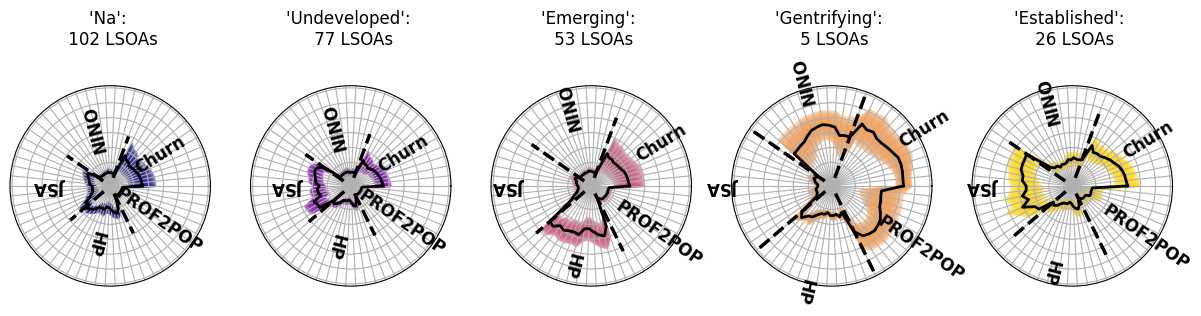
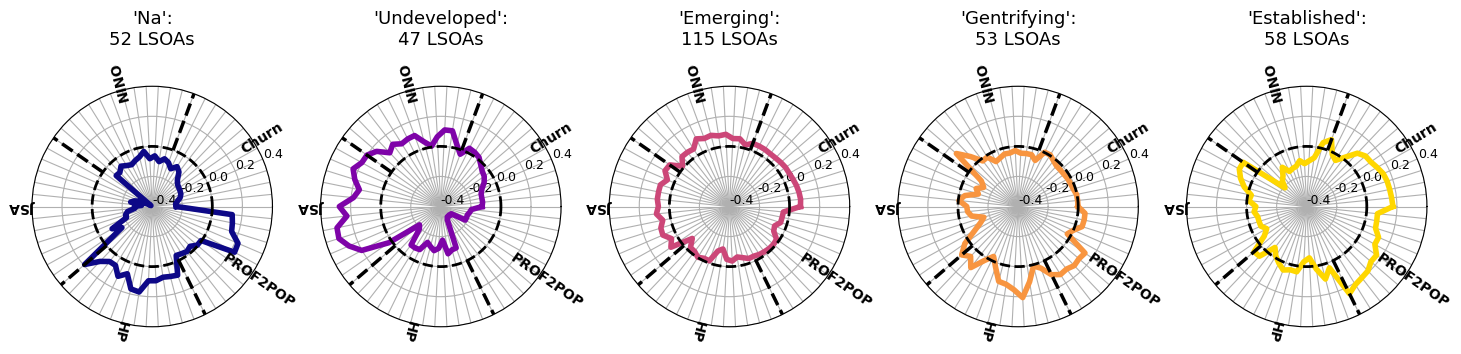
refining 2025 GISRUK presentation

diff --git a/p/2025-GISRUK-INTEGRATE_LLM.html b/p/2025-GISRUK-INTEGRATE_LLM.html
@@ -140,7 +140,7 @@
                     <p>Download listings from Inside Airbnb</p>
                     <p>Prompt the LLM to read the text and estimate how 'suggestive' the descriptions
                     are of gentrification</p>
-                    <p>LLM outputs a number for each listing (and an 'explanation' for its score)</p>
+                    <p>LLM returns a number (the score) for each listing (and an 'explanation' for its score)</p>
                     <p>Analyse the gentrification scores...</p>
                 </section>
                 
@@ -193,8 +193,9 @@
 					</div>
                 </section>
                 
-                <section id="results">
-                    <h2>Preliminary Results</h2>
+                <section id="results1">
+                    <h2>Preliminary Results (1)</h2>
+                    <h3>Spatial distribution of the gentrification scores</h3>
                     <img data-src="../figures/paper_figures/2025-GISRUK-INTEGRATE_LLM/listing_scores.png"
                          alt="Map of listing gentrification scores. Higher scores tend to be 
                               in the centre of the city"
@@ -202,14 +203,25 @@
                          />
                 </section>
                 
+                <section id="results2">
+                    <h2>Preliminary Results (2)</h2>
+                    <h3>LLM's 'explanation' of the scores</h3>
+                    <p>The LLM is asked to explain why it gives its chosen score</p>
+                    <p>Basically the explanations seem reasonable</p>
+                    <p>BUT: not clear whether alternative explanations for different scores
+                    will also appear reasonable.</p>
+                    <p class="l2">(More on validation later..)</p>
+                </section>
+                
                 <section id="stochasticity">
-                    <h2>Stochasticity</h2>
+                    <h2>Preliminary Results (3)</h2>
+                    <h3>Stochasticity</h3>
                     <p>The LLM is probabilistic: its output can vary randomly</p>
                     <p>To test this we run the estimation procedure 3 times with identical
                     LLM parameters</p>
                     <p>Fleiss Kappa statistic well suited to estimate annotator variability where
                     there are more than two annotators</p>
-                    <p>Score = 0.74 suggests "substantial" agreement</p>
+                    <p>Score = 0.74 suggests "substantial" agreement across the three runs</p>
                 </section>
                 
                 <section id="future-gentrification">
@@ -226,9 +238,9 @@
 				<section id="future-gentrification2">
                     <h2>Immediate future work (1)</h2>
                     <h3>Defining gentrification</h3>
-                    <img data-src="../figures/paper_figures/2025-GISRUK-INTEGRATE_LLM/new_gentrification_classification.jpg"
+                    <img data-src="../figures/paper_figures/2025-GISRUK-INTEGRATE_LLM/new_gentrification_classification.png"
                          alt="Map showing distribution of 'new' gentrification score"
-                         style="width: 80%"
+                         style="width: 90%"
                          />
                 </section>
 
@@ -241,6 +253,14 @@
                     <p>Are the underlying demographics consistent with our estimates of gentrification?</p>
                     <img data-src="../figures/paper_figures/2025-GISRUK-INTEGRATE_LLM/rose_diagrams.png"
                          alt="Rose diagrams showing the preliminary classification results"
+                         />
+                    <p>(But: which is <i>right</i>?)</p>
+                </section>
+                
+                <section id="future-validation2">
+                    <img data-src="../figures/paper_figures/2025-GISRUK-INTEGRATE_LLM/rose_diagrams2.png"
+                         alt="Rose diagrams showing the preliminary classification results"
+                         style="width: 60%;"
                          />
                 </section>
                 
